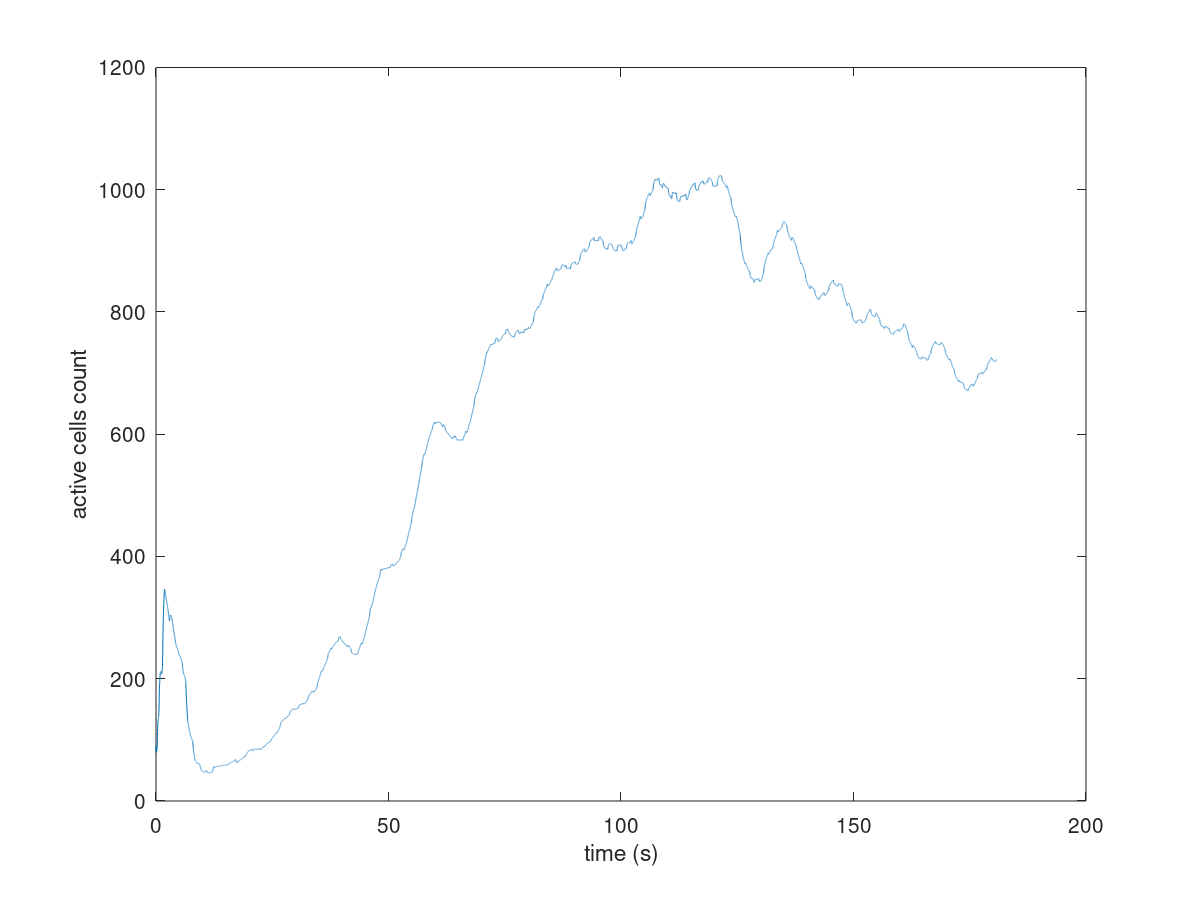
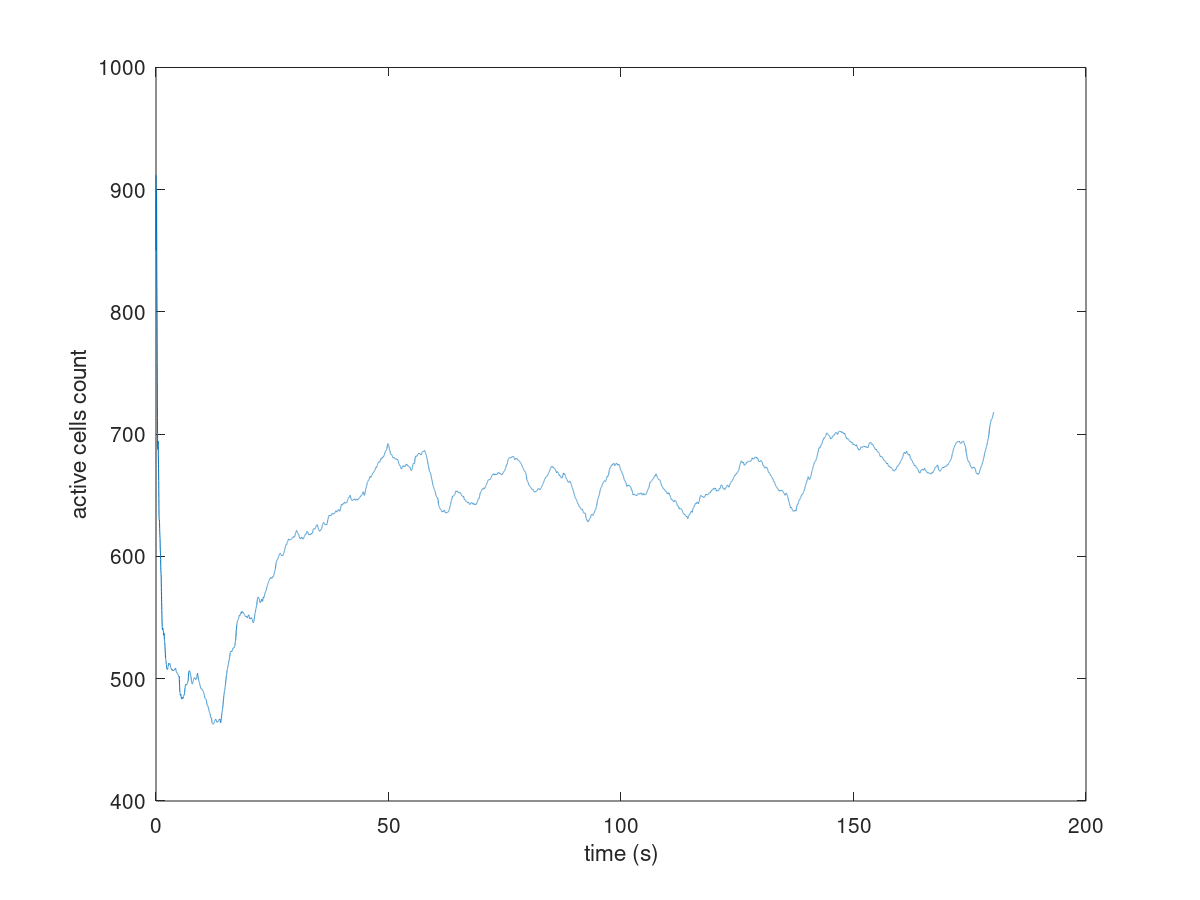
density and density ratio, revisited

diff --git a/tes.py b/tes.py
@@ -6,14 +6,19 @@ import sys
 cap = cv2.VideoCapture(sys.argv[1])
 cap.set(cv2.CAP_PROP_POS_FRAMES, float(sys.argv[2]))
  
-fgbg = cv2.createBackgroundSubtractorMOG2(200, 15, bool(0))
+fgbg = cv2.createBackgroundSubtractorMOG2(50, 10, bool(0))
 
-a = 1.2 # Contrast control (1.0-3.0)
+a = 1.2 # Contrast control (1.0-3.0) bukan control tanpa r
 b = 0 # Brightness control (0-100)
 frameb = []
 aggre= 5;
 
+video_width  = int(cap.get(3))  # float
+video_height = int(cap.get(4)) # float
+
+density_minimum= 10000000
 framenum = 0
+
 while(1):
     ret, frame = cap.read()
     invr = cv2.bitwise_not(frame)
@@ -26,7 +31,7 @@ while(1):
             frameb.append(framen);
     framenum += 1
             
-    
+    #nulis ngawur
     # shift the frames
     for i in range(0, aggre-1):
         frameb[i]= frameb[i+1];
@@ -62,27 +67,30 @@ while(1):
         if x_start<0:
             x_start= 0
         x_stop = int(center_x + r/2)
-        if x_stop>639:
-            x_stop= 639
+        if x_stop>video_width:
+            x_stop= video_width
         y_start= int(center_y - r/2)
         if y_start<0:
             y_start= 0
         y_stop = int(center_y + r/2)
-        if y_stop>439:
-            y_stop= 439
+        if y_stop>video_height:
+            y_stop= video_height
         #print("{:0.2f} {:0.0f} {:0.0f} {:0.0f} {:0.0f}".format(r,x_start,x_stop,y_start,y_stop))
         
-        for i in range(x_start, x_stop, 1):
-            for j in range(y_start, y_stop, 1):
-                if frame_sum[i,j]:
+        for i in range(x_start, x_stop-1, 1):
+            for j in range(y_start, y_stop-1, 1):
+                if frame_sum[j,i]:
                     density +=1
     
-        print("count:{}\tpoint:({:0.2f},{:0.2f})\tradius={:0.2f}\tdensity={:0.2f}".format(len(contours), center_x, center_y, r, density/r))
+        if density_minimum>total_m:
+            density_minimum= total_m;
+            
+        print("time:{:0.2f}\tcount:{}\tpoint:({:0.2f},{:0.2f})\tdensity={:0.0f}\tratio={:0.3f}".format(framenum/60,len(contours), center_x, center_y, total_m, total_m/density_minimum))
         
-    #cv2.imshow('frame',frame)
-    #cv2.imshow('deteksi',frame_sum)
+    cv2.imshow('frame',frame)
+    cv2.imshow('deteksi',frame_sum)
     
-    k = cv2.waitKey(16) & 0xff
+    k = cv2.waitKey(1) & 0xff
     if k == 27:
         break
 
